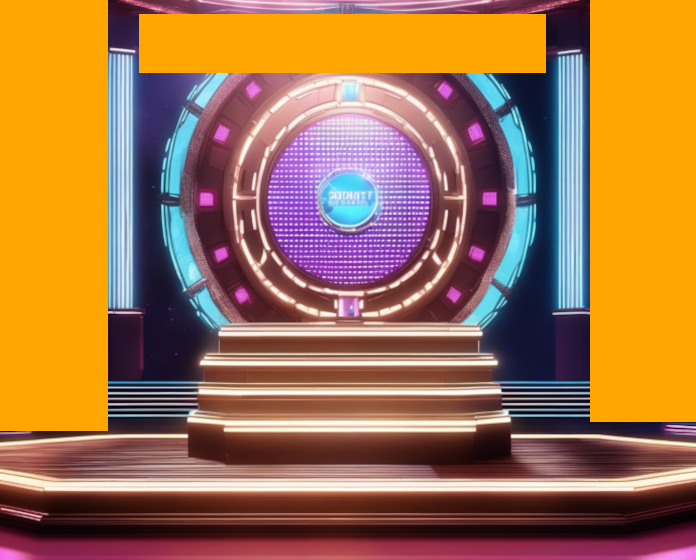
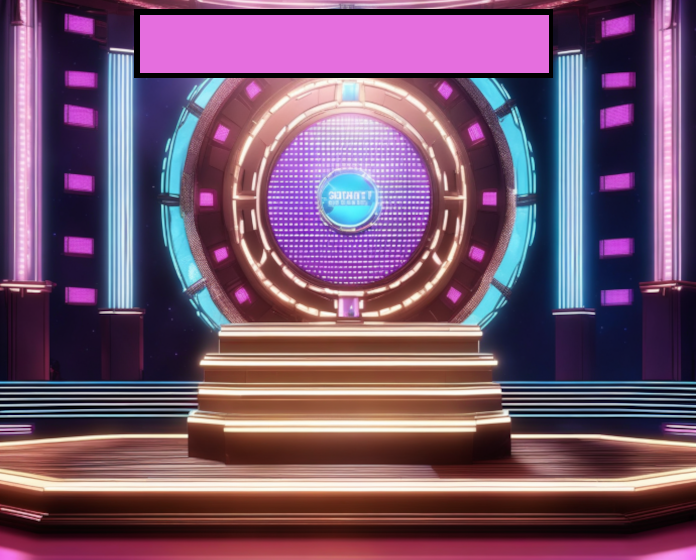
change banker and open case images

diff --git a/deal/app/app.js b/deal/app/app.js
@@ -5,7 +5,7 @@ const GAME_SCREEN_HEIGHT = 560
 
 const AMOUNT_BOARD_CARD_WIDTH = 100
 const AMOUNT_BOARD_CARD_HEIGHT = 30
-const AMOUNT_BOARD_CARD_LABEL_OFFSET_X = 20
+const AMOUNT_BOARD_CARD_LABEL_OFFSET_X = 0
 const AMOUNT_BOARD_CARD_LABEL_OFFSET_Y = 10
 const AMOUNT_BOARD_WIDTH = 100
 const AMOUNT_BOARD_HEIGHT = 13 * (AMOUNT_BOARD_CARD_HEIGHT + 5)
@@ -32,8 +32,9 @@ const TOP_MESSAGE_Y = 30
 const TOP_MESSAGE_FONT_SIZE = '24px'
 const TOP_MESSAGE_WIDTH = 600
 
-const BANK_OFFER_MESSAGE_X = 30
-const BANK_OFFER_MESSAGE_Y = 150
+const BANK_OFFER_MESSAGE_X = 260
+const BANK_OFFER_MESSAGE_Y = 440
+const BANK_OFFER_MESSAGE_COLOR = "yellow"
 
 const CURRENT_CASE_VALUE_X = 300
 const CURRENT_CASE_VALUE_Y = 300
@@ -43,12 +44,12 @@ const CHOSEN_INITIAL_CASE_Y = 500
 
 const AMOUNT_CARD_PER_BOARD = 13
 
-const DEAL_BUTTON_X = 150
-const DEAL_BUTTON_Y = 400
+const DEAL_BUTTON_X = 120
+const DEAL_BUTTON_Y = 450
 const DEAL_BUTTON_WIDTH = 128
 const DEAL_BUTTON_HEIGHT = 128
-const NO_DEAL_BUTTON_X = 390
-const NO_DEAL_BUTTON_Y = 400
+const NO_DEAL_BUTTON_X = 420
+const NO_DEAL_BUTTON_Y = 450
 const NO_DEAL_BUTTON_WIDTH = 128
 const NO_DEAL_BUTTON_HEIGHT = 128
 
@@ -65,6 +66,7 @@ const CASE_IMAGE = "assets/case.png"
 const MAIN_GAME_BG_IMAGE = "assets/mainGameBG.png"
 const WHITE_BG_IMAGE = "assets/whiteBG.png"
 const OPENED_CASE_BG_IMAGE = "assets/model.png"
+const OPENED_CASE_MODEL_SAD_BG_IMAGE = "assets/modelSad.png"
 const BANKER_OFFER_BG_IMAGE = "assets/bankerOfferBG.png"
 const DEAL_BUTTON_IMAGE = "assets/dealButton.png"
 const NO_DEAL_BUTTON_IMAGE = "assets/nonDealButton.png"
@@ -241,7 +243,7 @@ const DealOrNoDeal = Class.create(Object, {
     makeOpenCaseResultScene: function() {
         const scene = new Scene();
         
-        const bg = makeBackground(game.assets[OPENED_CASE_BG_IMAGE], GAME_SCREEN_WIDTH, GAME_SCREEN_HEIGHT)
+        const bg = makeBackground(this.currentOpenedCaseValue >= 1000 ? game.assets[OPENED_CASE_MODEL_SAD_BG_IMAGE] : game.assets[OPENED_CASE_BG_IMAGE], GAME_SCREEN_WIDTH, GAME_SCREEN_HEIGHT)
         bg.addEventListener(Event.TOUCH_START, function(e) {
             game.popScene();
         });
@@ -284,11 +286,11 @@ const DealOrNoDeal = Class.create(Object, {
         });
         let resultMessage = `BANK OFFERED $${numberWithCommas(parseInt(this.bankerOffer))}. YOUR CASE HAD $${numberWithCommas(this.initialChosenCase.value)}.`;
         if (!deal) {
-            if (this.initialChosenCase.value < this.bankerOffer) resultMessage = "YOU LOST! ".concat(resultMessage)
-            else resultMessage = "YOU WON! ".concat(resultMessage)
+            if (this.initialChosenCase.value < this.bankerOffer) resultMessage = resultMessage.concat("         YOU LOST!")
+            else resultMessage = resultMessage.concat("         YOU WON!")
         } else {
-            if (this.initialChosenCase.value > this.bankerOffer) resultMessage = "YOU LOST! ".concat(resultMessage)
-            else resultMessage = "YOU WON! ".concat(resultMessage)
+            if (this.initialChosenCase.value > this.bankerOffer) resultMessage = resultMessage.concat("         YOU LOST!")
+            else resultMessage = resultMessage.concat("         YOU WON!")
         }
         const endGameMessage = new EndGameMessage(0, 0, resultMessage);
 
@@ -345,6 +347,7 @@ const DealOrNoDeal = Class.create(Object, {
             }
             if (this.casesOpenedThisRound == MAX_CASES_PER_ROUND[this.round]) {
                 this.bankerOffer = getBankerOffer(this.offerPercent, this.cases)
+                this.numberCasesToChooseLabel.displayMessage("           DEAL OR NO DEAL?", null)
                 this.offerPercent = this.offerPercent + this.offerIncrement;
                 this.roundEnded = true;
                 game.pushScene(this.makeBankOfferDealNoDealScene());
@@ -418,10 +421,18 @@ const AmountBoardCard = Class.create(Sprite, {
 
 const AmountBoardCardLabel = Class.create(Label, {
     initialize: function(x, y, amount) {
-        Label.call(this, "$".concat(numberWithCommas(amount)))
-        this.x = x + AMOUNT_BOARD_CARD_LABEL_OFFSET_X;
+        let amountText = numberWithCommas(amount)
+        const pad = 16 - amountText.length
+        for (let i = 0; i < pad; i++) {
+            amountText = " ".concat(amountText)
+        }
+        amountText = "$".concat(amountText)
+        Label.call(this, amountText)
+        this.x = x + AMOUNT_BOARD_CARD_LABEL_OFFSET_X + (amount < 1000 ? -10 : 0);
         this.y = y + AMOUNT_BOARD_CARD_LABEL_OFFSET_Y;
         this.amount = amount;
+        this.textAlign = 'right';
+        this.width = AMOUNT_BOARD_CARD_WIDTH - 7
     }
 })
 
@@ -558,9 +569,15 @@ const BankOfferLabel = Class.create(Label, {
         this.x = x;
         this.y = y;
         this.font = "36px 'Arial'";
+        this.color = BANK_OFFER_MESSAGE_COLOR;
     },
     change: function(text) {
-        this.text = "$".concat(numberWithCommas(parseInt(text)))
+        let centeredText = "$".concat(numberWithCommas(parseInt(text)))
+        const padding = 8 - centeredText.length
+        for (let i = 0; i < padding; i++) {
+            centeredText = " ".concat(centeredText);
+        }
+        this.text = centeredText;
     },
     clear: function() {
         this.text = ""
@@ -590,6 +607,7 @@ window.onload = function() {
     game.preload(MAIN_GAME_BG_IMAGE);
     game.preload(WHITE_BG_IMAGE);
     game.preload(OPENED_CASE_BG_IMAGE);
+    game.preload(OPENED_CASE_MODEL_SAD_BG_IMAGE);
     game.preload(BANKER_OFFER_BG_IMAGE);
     game.preload(DEAL_BUTTON_IMAGE);
     game.preload(NO_DEAL_BUTTON_IMAGE);
